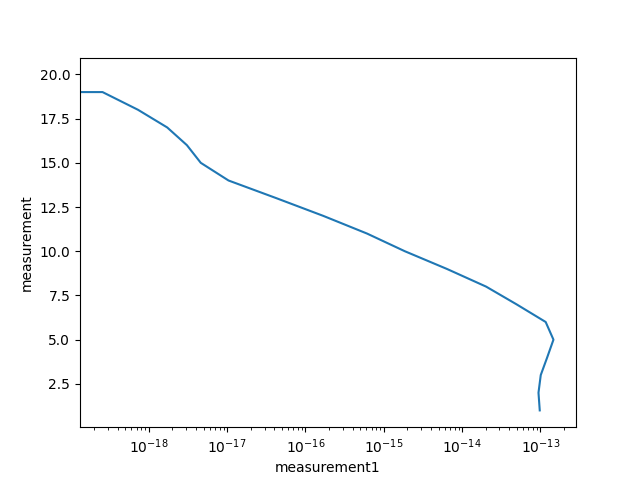
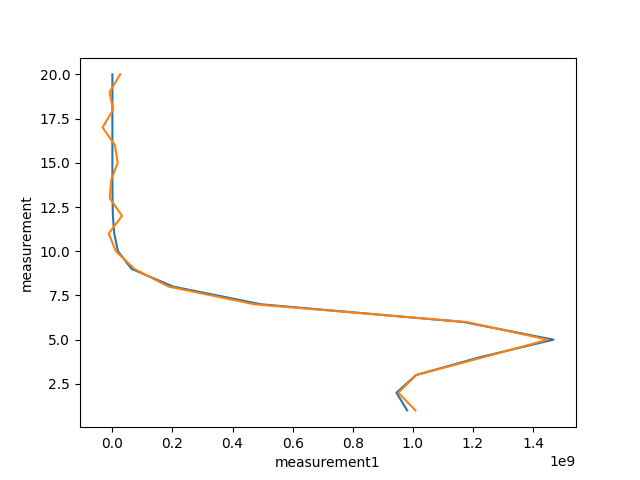
can invert B after multiplying A with 1e-8

diff --git a/main.py b/main.py
@@ -1,11 +1,20 @@
 import numpy as np
+import scipy as sc
 from functions import *
 from scipy import constants
 import testReal
 import matplotlib.pyplot as plt
 import pandas as pd
+from scipy.stats import norm
+from scipy.optimize import curve_fit
+from scipy.sparse.linalg import gmres
 import numpy.random as rd
 from numpy.fft import fft, ifft, fft2
+
+
+import math
+def orderOfMagnitude(number):
+    return math.floor(math.log(number, 10))
 
 
 
@@ -14,7 +23,7 @@ from numpy.fft import fft, ifft, fft2
 ##check absoprtion coeff in different heights and different freqencies
 #/Users/lennart/PycharmProjects/firstModelCheck
 obs_height= 300 #in km
-filename = '/Users/lennart/PycharmProjects/firstModelCheck/tropical.O3.xml' #/home/lennartgolks/Python
+filename = '/home/lennartgolks/Python/firstModelCheck/tropical.O3.xml' #/home/lennartgolks/Python /Users/lennart/PycharmProjects
 VMR_O3, height_values, pressure_values = testReal.get_data(filename, obs_height * 1e3)
 #[parts if VMR_O3 * 1e6 = ppm], [m], [Pa] = [kg / (m s^2) ]\
 height_values = np.around(height_values * 1e-3,2)#in km 1e2 # in cm
@@ -25,14 +34,14 @@ N_A = constants.Avogadro # in mol^-1
 k_b_cgs = constants.Boltzmann * 1e7#in J K^-1
 R_gas = N_A * k_b_cgs # in ..cm^3
 
-
+plt.plot(pressure_values, height_values)
 #plt.plot(VMR_O3, height_values)
-#plt.show()
+plt.show()
 
 temp_values = get_temp_values(height_values)
 x = VMR_O3 * N_A * pressure_values /(R_gas * temp_values)#* 1e-13
 
-files = '/Users/lennart/PycharmProjects/firstModelCheck/634f1dc4.par'
+files = '/home/lennartgolks/Python/firstModelCheck/634f1dc4.par' #/home/lennartgolks/Python /Users/lennart/PycharmProjects
 
 my_data = pd.read_csv(files, header=None)
 data_set = my_data.values
@@ -123,7 +132,7 @@ p_ref = pressure_values[0]
 
 # vmr might not have correct units
 #C4 =  [V(x_wvnmbrs[500],sigma[temp],gamma[temp])/sum(V(x_wvnmbrs,sigma[temp],gamma[temp])) for temp in range(0, len(temp_values)) ] #scaling trhough dopller/voigt profile
-w_cross = np.ones((len(height_values),1)) * S[ind,0]
+w_cross = np.ones((len(height_values),1)) * S[ind,0] * 1e17
 w_cross[0], w_cross[-1] = 0, 0
 #S[ind,0] * C4[i][0]
 
@@ -146,7 +155,8 @@ num_meas = 20
 meas_ang = np.linspace(min_ang+(max_ang-min_ang)/4, max_ang-(max_ang-min_ang)/4, num_meas)
 meas_ang = np.linspace(min_ang, max_ang, num_meas)
 
-Ax = gen_measurement(meas_ang, height_values, w_cross, VMR_O3, pressure_values ,temp_values, Source)
+# in cm but Ax is cgs
+Ax, A ,x = gen_measurement(meas_ang, height_values, w_cross, VMR_O3, pressure_values ,temp_values, Source)
 #get tangent height for each measurement
 tang_height = np.around((np.sin(meas_ang) * (obs_height + R) ) -R,2)
 
@@ -160,21 +170,24 @@ for j in range(0,num_meas):
 
 
 
+plt.plot(x, height_values[1::])
+#plt.plot(VMR_O3, height_values)
+plt.show()
 
+#convolve measurements and add noise
+y = add_noise(Ax, 0.01, np.max(Ax))
 
 fig2, ax2 = plt.subplots()
 ax2.plot( Ax,np.linspace(1,num_meas,num_meas,dtype = int))
+ax2.plot( y,np.linspace(1,num_meas,num_meas,dtype = int))
 ax2.set_ylabel('measurement')
 ax2.set_xlabel('measurement1')
-ax2.set_xscale('log')
+#ax2.set_xscale('log')
 fig2.savefig('measurements.png')
 plt.show()
 
 
-#convolve measurements and add noise
 
-
-sigma_noise = 0.01 * np.max(Ax)
 
 
 #Y2 = sec_meas + rd.normal(0, np.sqrt(sigma_noise ), (44,1))
@@ -187,24 +200,95 @@ apha = 44/2 + 1
 #Bayesian framework
 
 #graph Laplacian
-neigbours = np.zeros((len(height_values)-1,2))
+layers = len(height_values)-1
+neigbours = np.zeros((layers,2))
 
 neigbours[0] = np.nan, 1
-neigbours[-1] = len(height_values)-3, np.nan
-for i in range(1,len(height_values)-2):
+neigbours[-1] = layers-3, np.nan
+for i in range(1,layers-2):
     neigbours[i] = i-1, i+1
 
 
+vari = np.zeros((len(VMR_O3),1))
+
+
+def func(x, x0, sigma):
+    return  - (x - x0) ** 2 / (2 * sigma ** 2)
+
+#x = x * 1e17
+for j in range(1,len(x)-1):
+    rra = (x[j] + x[j]/2)
+    dist = np.linspace(-rra, rra,200)
+    y = np.zeros((200,1))
+
+    #plot normal distribution of one data point X_i to find hyperparamter
+    for i in range(1,200):
+        y[i] = (-0.5 * ((dist[i] - x[j-1])**2 + (dist[i] - x[j+1])**2 ))
+
+    y = y[1:-1]
+    dist = dist[1:-1]
+    # Executing curve_fit on noisy data
+    mean = (sum(dist * y) / sum(y))
+    sigma = np.sqrt( sum(y * (dist -  x[j])**2 / sum(y)))
+    popt, pcov = curve_fit(func, dist.flatten(), y.flatten(), p0=[  x[j], sigma] )
+
+    vari[j] = popt[1]**2
+    # print(j)
+    # ym = func(dist, popt[0], popt[1])
+    # plt.figure()
+    # plt.plot(dist, ym, 'k', linewidth=2)
+    # plt.plot(dist, y)
+    # plt.show()
+
+
+
+
+    #plt.show()
+#gmres(C - lamba * L, np.identity(num_meas), tol = 1e-3,restart = 25, maxiter = 1e4)
+
+#variance is
+# ym = func(dist, popt[0], popt[1])
+# plt.figure()
+# plt.plot(dist, ym, 'k', linewidth=2)
+# plt.plot(dist, y)
+# plt.show()
+
+
+#first guesses
+gamma = 0.01 * max(Ax)
+eta = 1/ (2 * np.mean(vari[2:-3]))
+
+
+
 L = generate_L(neigbours)
+#number is approx 130 so 10^2
+C = np.matmul(A.T  , A )
+#B is symmetric and positive semidefinite and normal
+B = (C - eta/gamma * L) #* 1e-14
+#condition number for B
+cond_B = np.linalg.cond(B)
+print("normal: " + str(orderOfMagnitude(cond_B)))
+
+### try to get the cond number low
+A2 = A * 1e-8 # 1e-11 then I get a cond of 1e4
+L2 = L#[0:-1,0:-1]
+B2 = (np.matmul(A2.T  , A2 ) - eta/gamma * L2)
+#condition number for B
+cond_B2 = np.linalg.cond(B2)
+print("normal: " + str(orderOfMagnitude(cond_B2)))
+#qr facorization decomposition
+Q2,R2 = np.linalg.qr(B2)
+detR2 = np.prod(np.diag(R2))
+B2_inv = np.matmul(np.linalg.inv(R2) , Q2.T)
+
+#check if B2^-1 B2 == 1
+TEST = np.matmul(B2, B2_inv)
+print(np.allclose(np.identity(len(B2)) ,TEST))#, atol = 1e-4))
+
+# taylor expansion for f and g
 
 
-# f and g
 
-
-
-#f = np.matmul(Y2.T,np.matmul(np.matmul(np.matmul(A,  np.linalg.inv(np.matmul(A.T,A) + L)),A.T),Y2))
-
-#g = np.linalg.det(np.matmul(A.T,A) + L)
 
 #hyperarameters
 number_samples = 100
@@ -220,7 +304,17 @@ etas[0] = 9.5e-12
 print('bla')
 
 
-
+#for assignment
+# fig10,(ax1,ax2) = plt.subplots(2)
+# t = np.linspace(0,10,11)
+# t_fin = np.linspace(0,10,100)
+# ax1.set_title('np.sin(2 * pi * v_0 = 0.1 * t)')
+# ax1.plot(t,np.sin(2 * np.pi * 0.1 * t))
+# ax1.plot(t_fin,np.sin(2 * np.pi * 0.1 * t_fin))
+# ax2.set_title('np.sin(2 * pi * (v_0 = 0.1 + 1/ T = 1) * t)')
+# ax2.plot(t,np.sin(2 * np.pi * (0.1 + 1) * t))
+# ax2.plot(t_fin,np.sin(2 * np.pi * (0.1 + 1) * t_fin))
+# plt.show()
 
 
 

diff --git a/functions.py b/functions.py
@@ -87,4 +87,7 @@ def gen_measurement(meas_ang, layers, w_cross, VMR_O3, P ,T, Source, obs_height 
     num_mole = (P / (constants.Boltzmann * 1e7  * T))
 
     THETA = (num_mole * w_cross * VMR_O3 * Source)
-    return  2 * np.matmul(A_height, THETA[1::])
+    return  2 * np.matmul(A_height*1e5, THETA[1::]), 2*A_height*1e5, THETA[1::]
+
+def add_noise(Ax, percent, max_value):
+    return Ax + np.random.normal(0, percent * max_value, (len(Ax),1))
